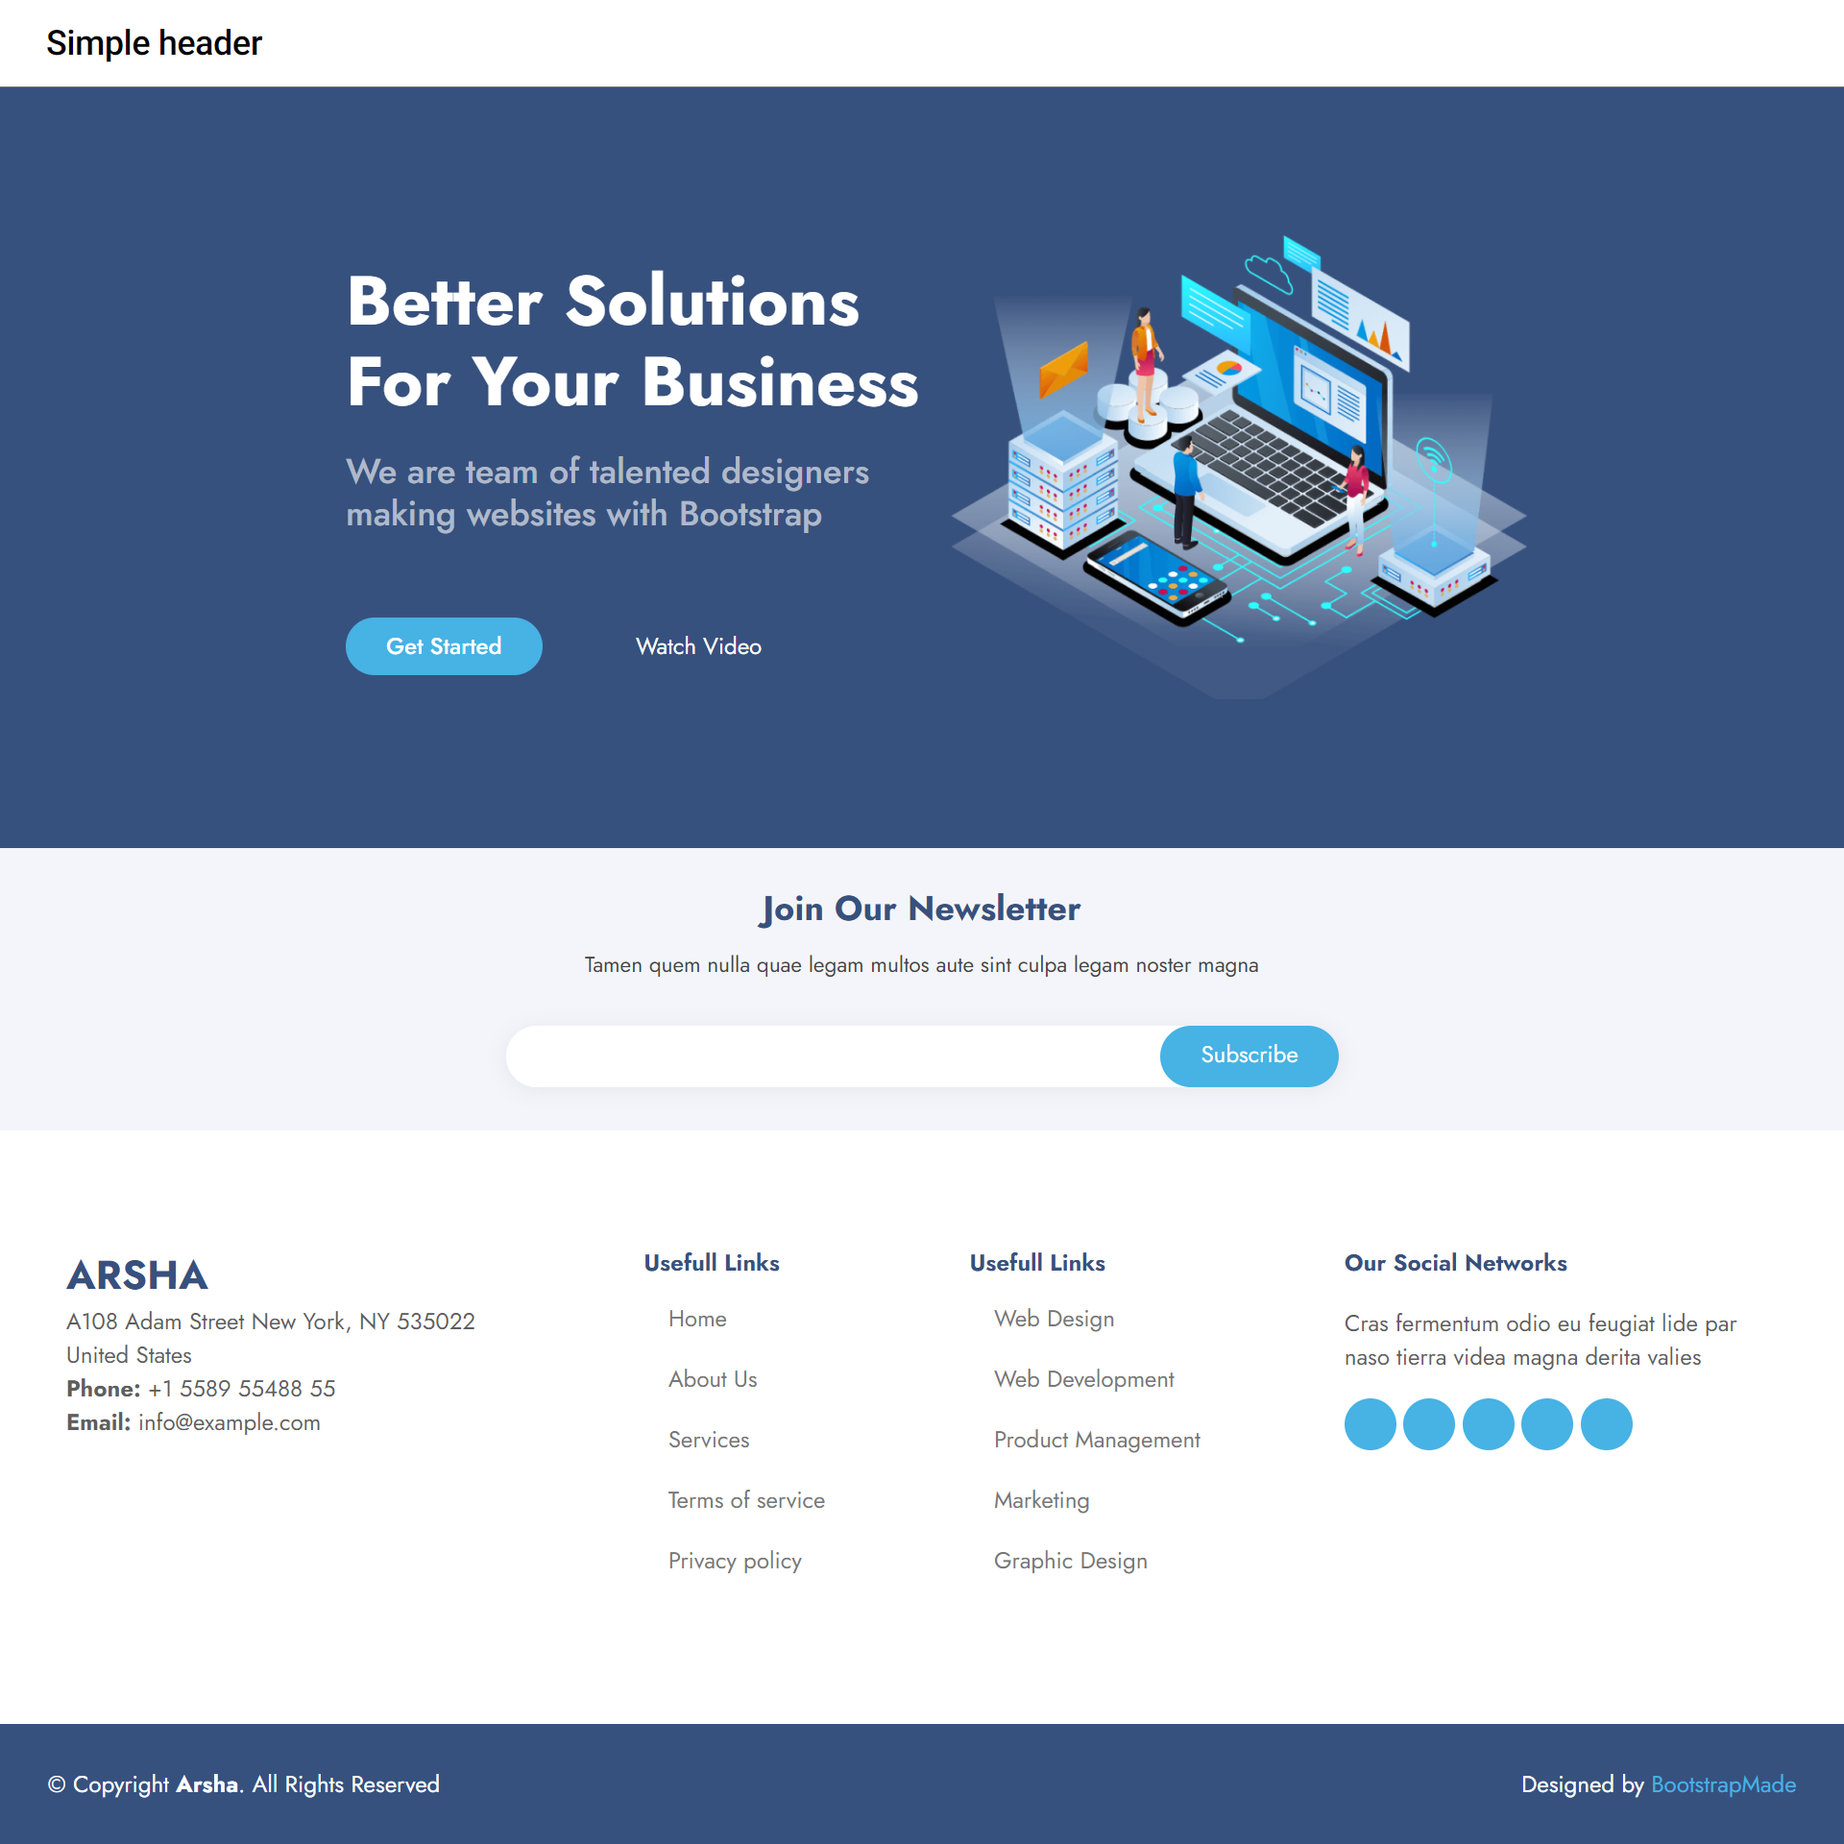
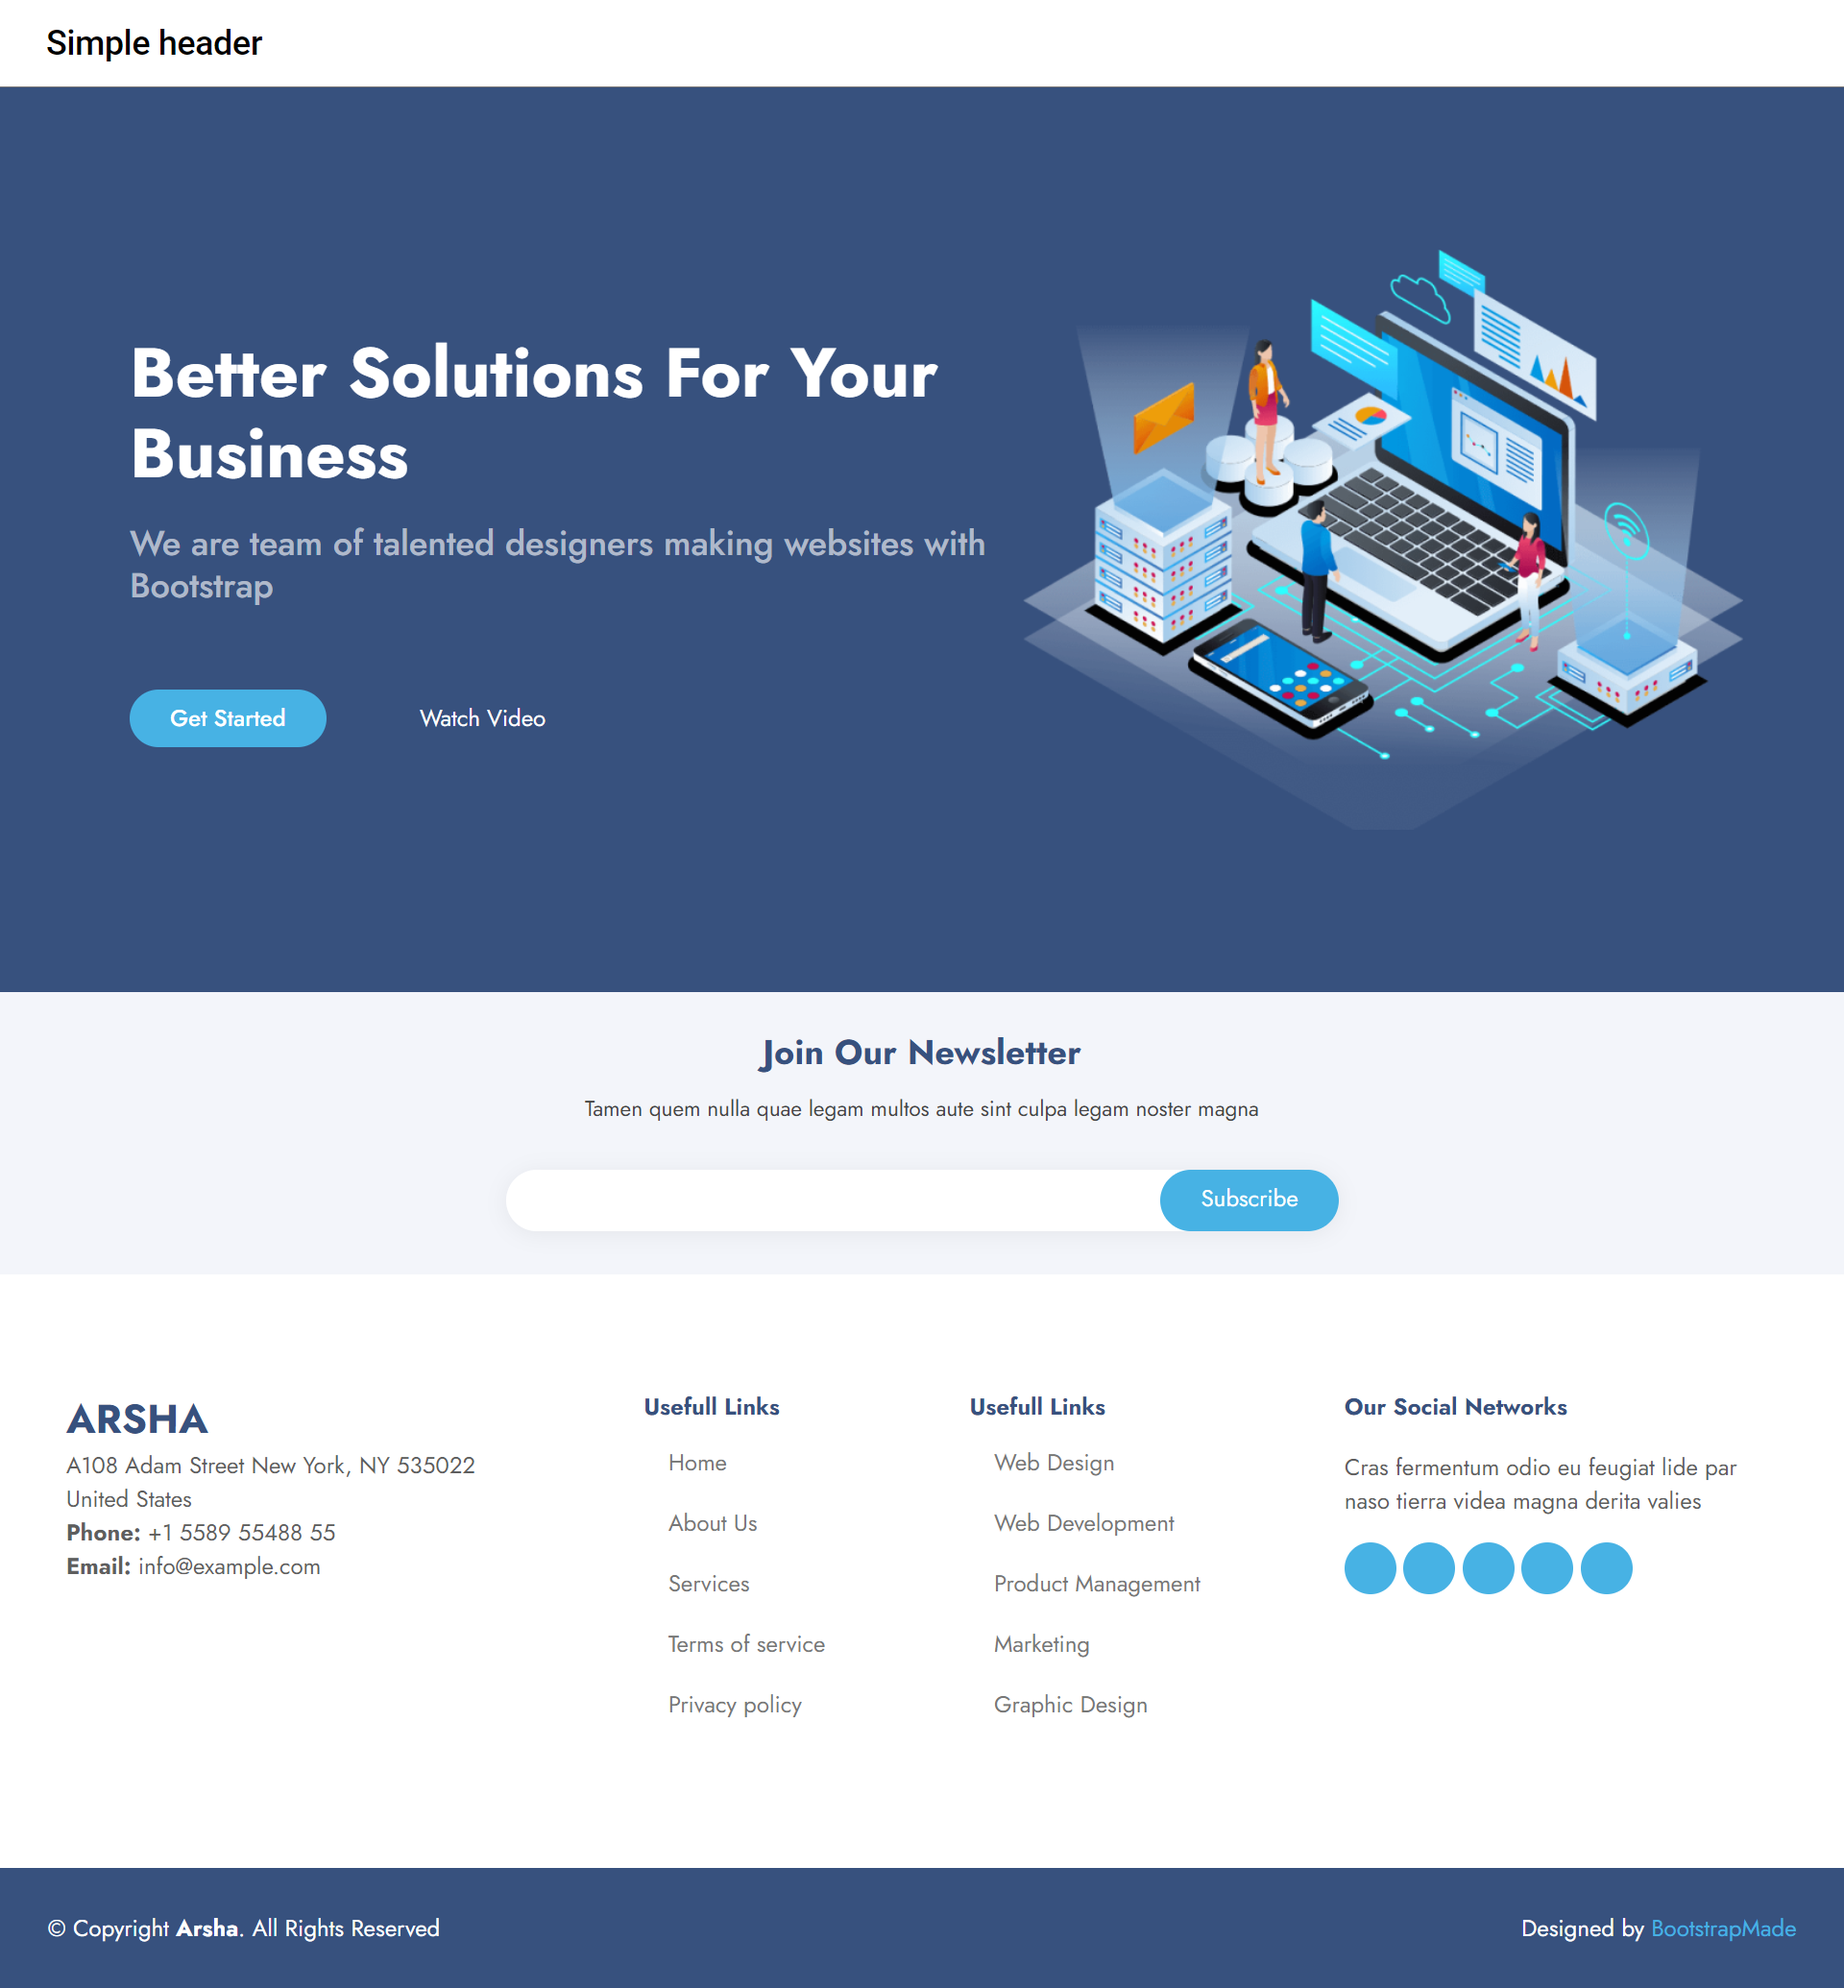
fix: delete unnecessary styles

diff --git a/8_CSS/praktikum/landingPage.css b/8_CSS/praktikum/landingPage.css
@@ -103,12 +103,13 @@ nav p {
 /* Hero Image */
 .image {
   display: flex;
-}
-
-img {
   justify-content: center;
   align-items: center;
   width: 250px;
+}
+
+img {
+  width: 100%;
 }
 /* End Hero Image */
 
@@ -270,9 +271,9 @@ img {
   /* Jumbrotron */
   #jumbotron {
     display: flex;
-    /* justify-content: space-around; */
     flex-direction: row;
     text-align: left;
+    padding: 80px 0px;
   }
 
   .content {
@@ -282,17 +283,15 @@ img {
     align-items: start;
     padding: 90px 20px;
     min-width: 400px;
-    width: 400px;
+    width: 600px;
     max-width: 700px;
     text-align: left;
   }
 
-  img {
-    justify-content: center;
-    align-items: center;
-    width: 400px;
-    max-width: 500px;
+  .image {
+    width: 500px;
   }
+
   /* End Jumbotron */
 
   /* link */
